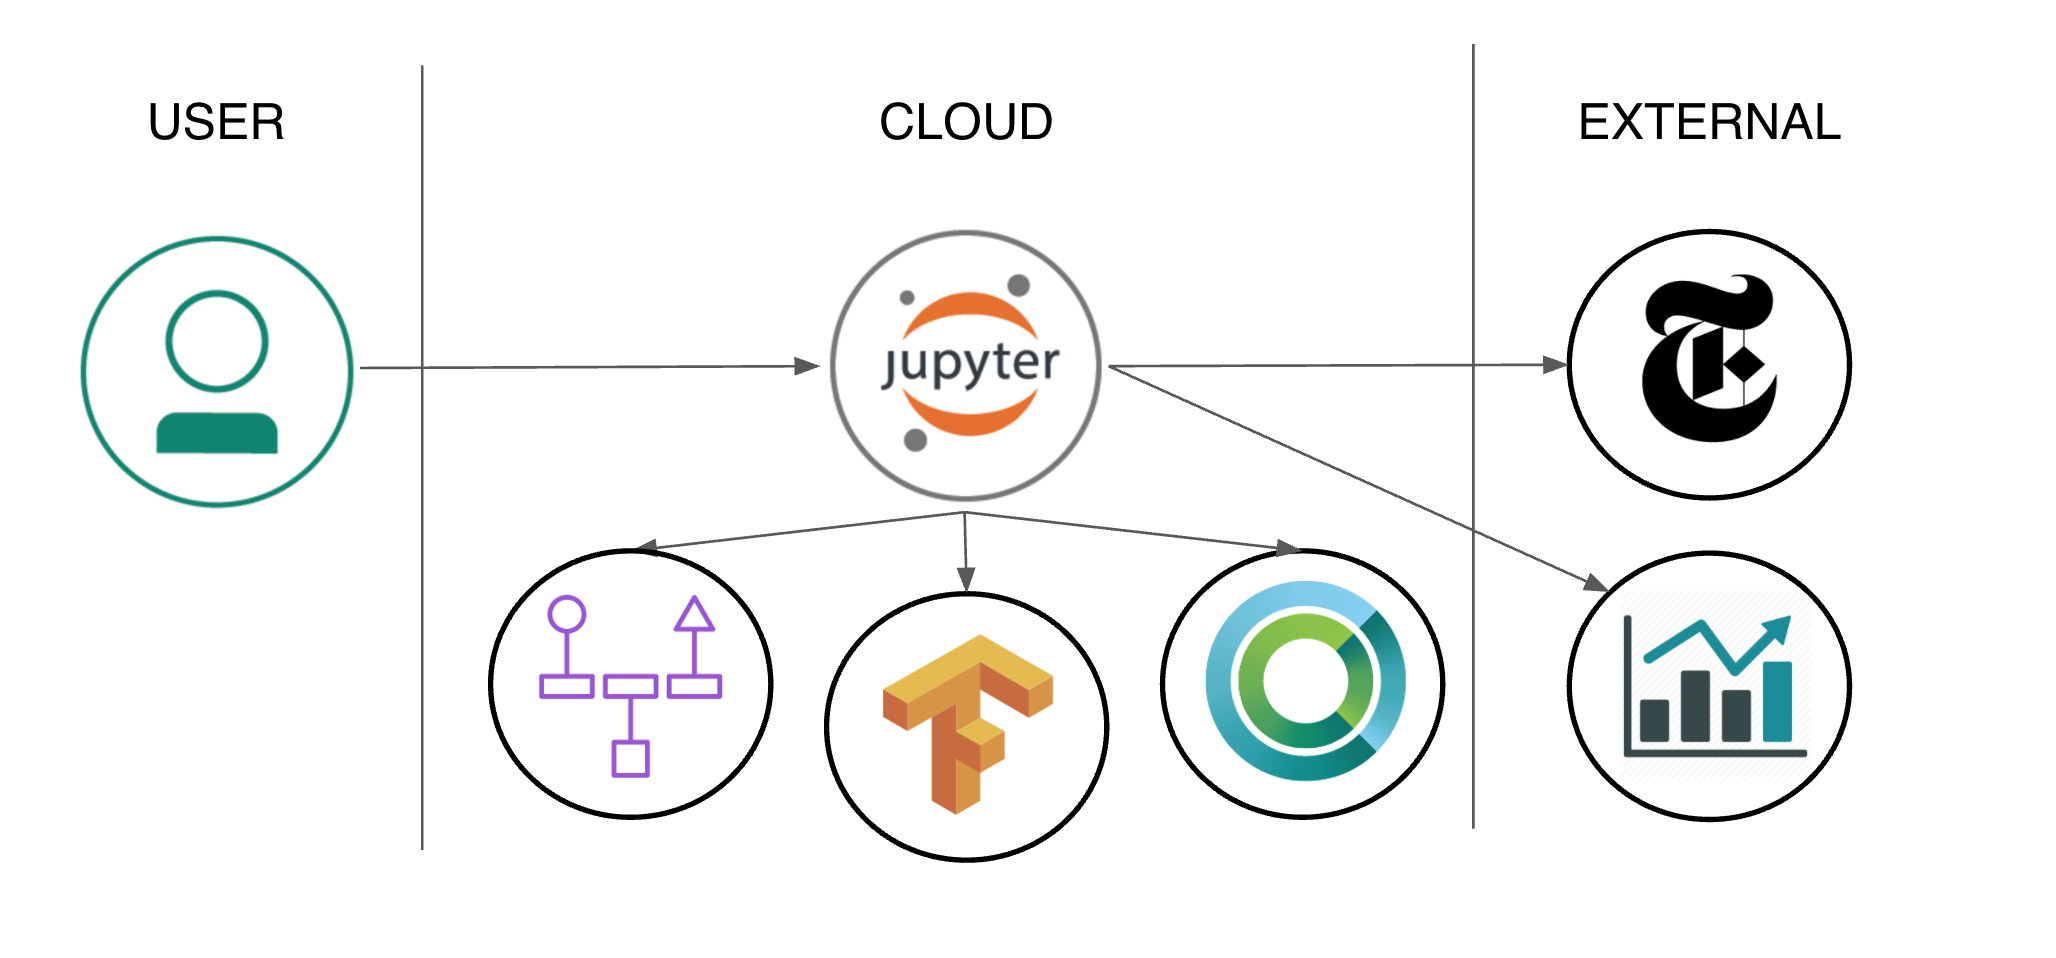
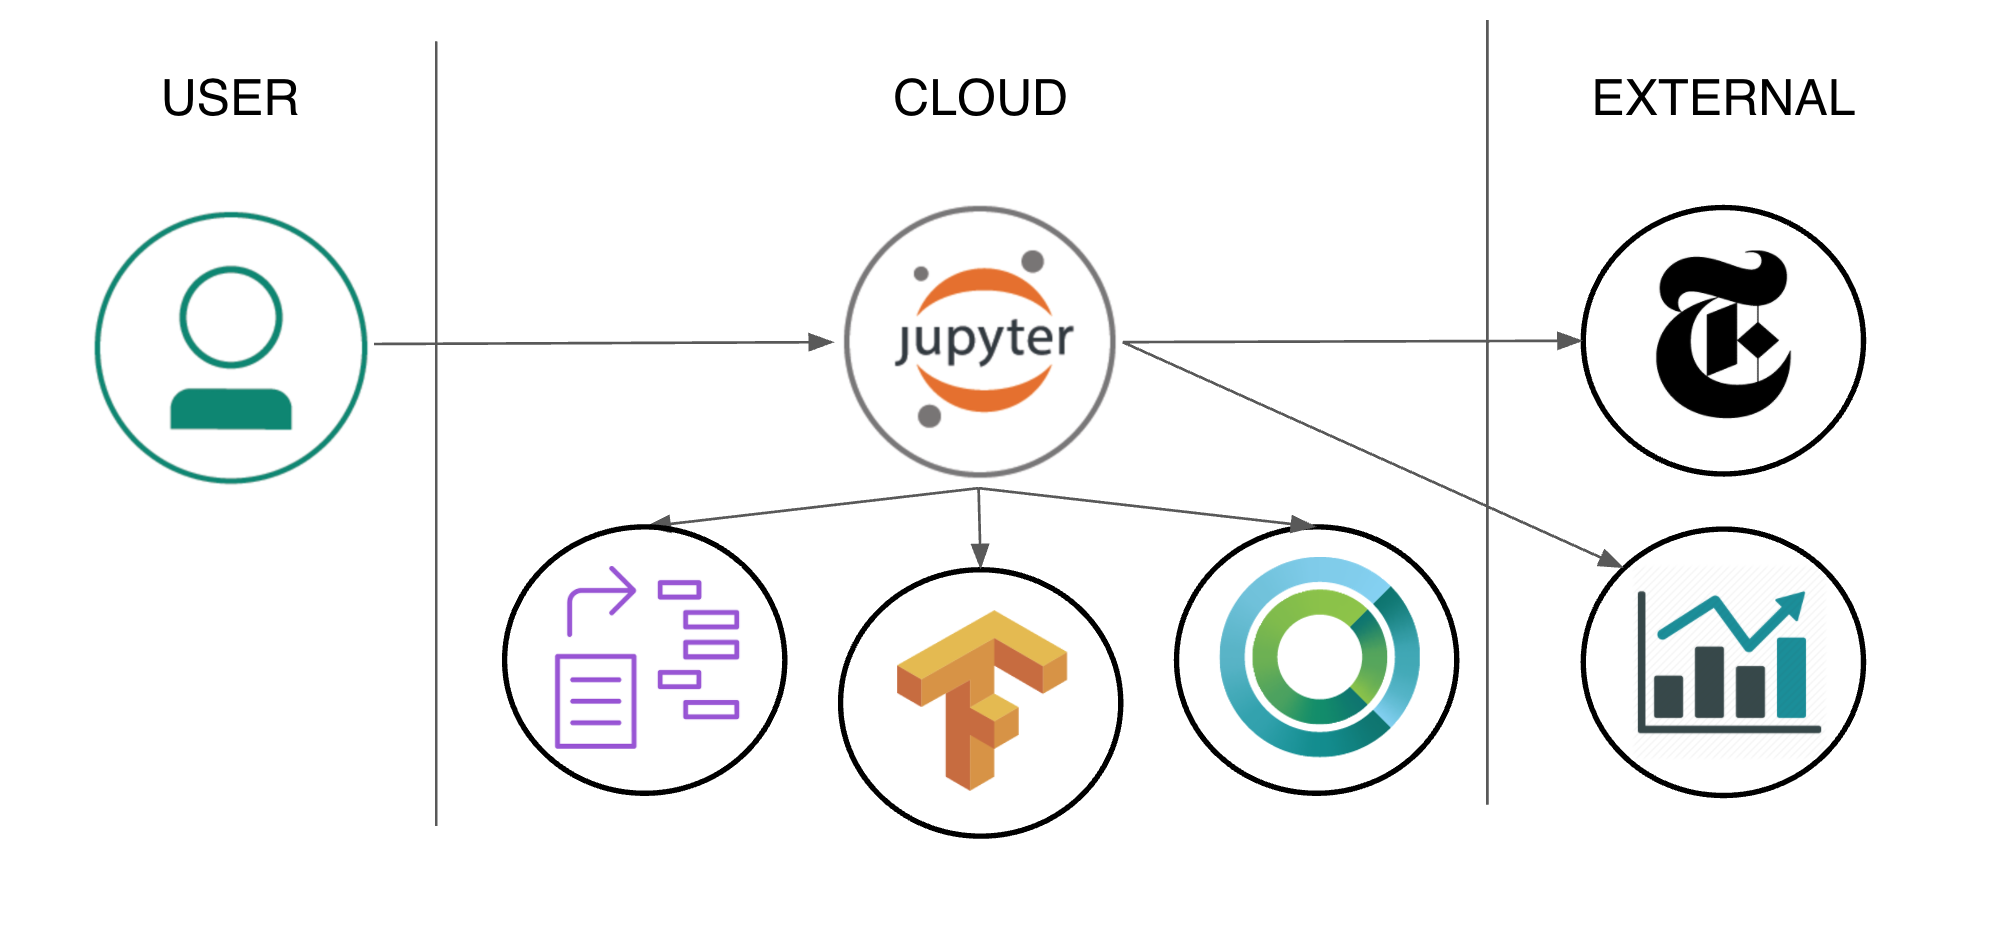
use correct service

diff --git a/README.md b/README.md
@@ -22,7 +22,7 @@ not have an abundance of time or data science experience.
 
 ## Included components
 
-* [IBM Watson Natural Language Classifier](https://www.ibm.com/watson/developercloud/nl-classifier.html): A Bluemix service that understands the intent behind text and returns a corresponding classification, complete with a confidence score.
+* [IBM Watson Natural Language Understanding](https://www.ibm.com/watson/developercloud/natural-language-understanding.html): A Bluemix service that can analyze text to extract meta-data from content such as concepts, entities, keywords, categories, sentiment, emotion, relations, semantic roles, using natural language understanding.
 * [IBM Power AI](https://www.ibm.com/ms-en/marketplace/deep-learning-platform): A software platform that includes the most popular machine learning frameworks with IBM Power Systems.
 * [Nimbix Cloud Computing Platform](https://www.nimbix.net/): An HPC & Cloud Supercomputing platform enabling engineers, scientists & developers, to build, compute, analyze, and scale simulations in the cloud
 
